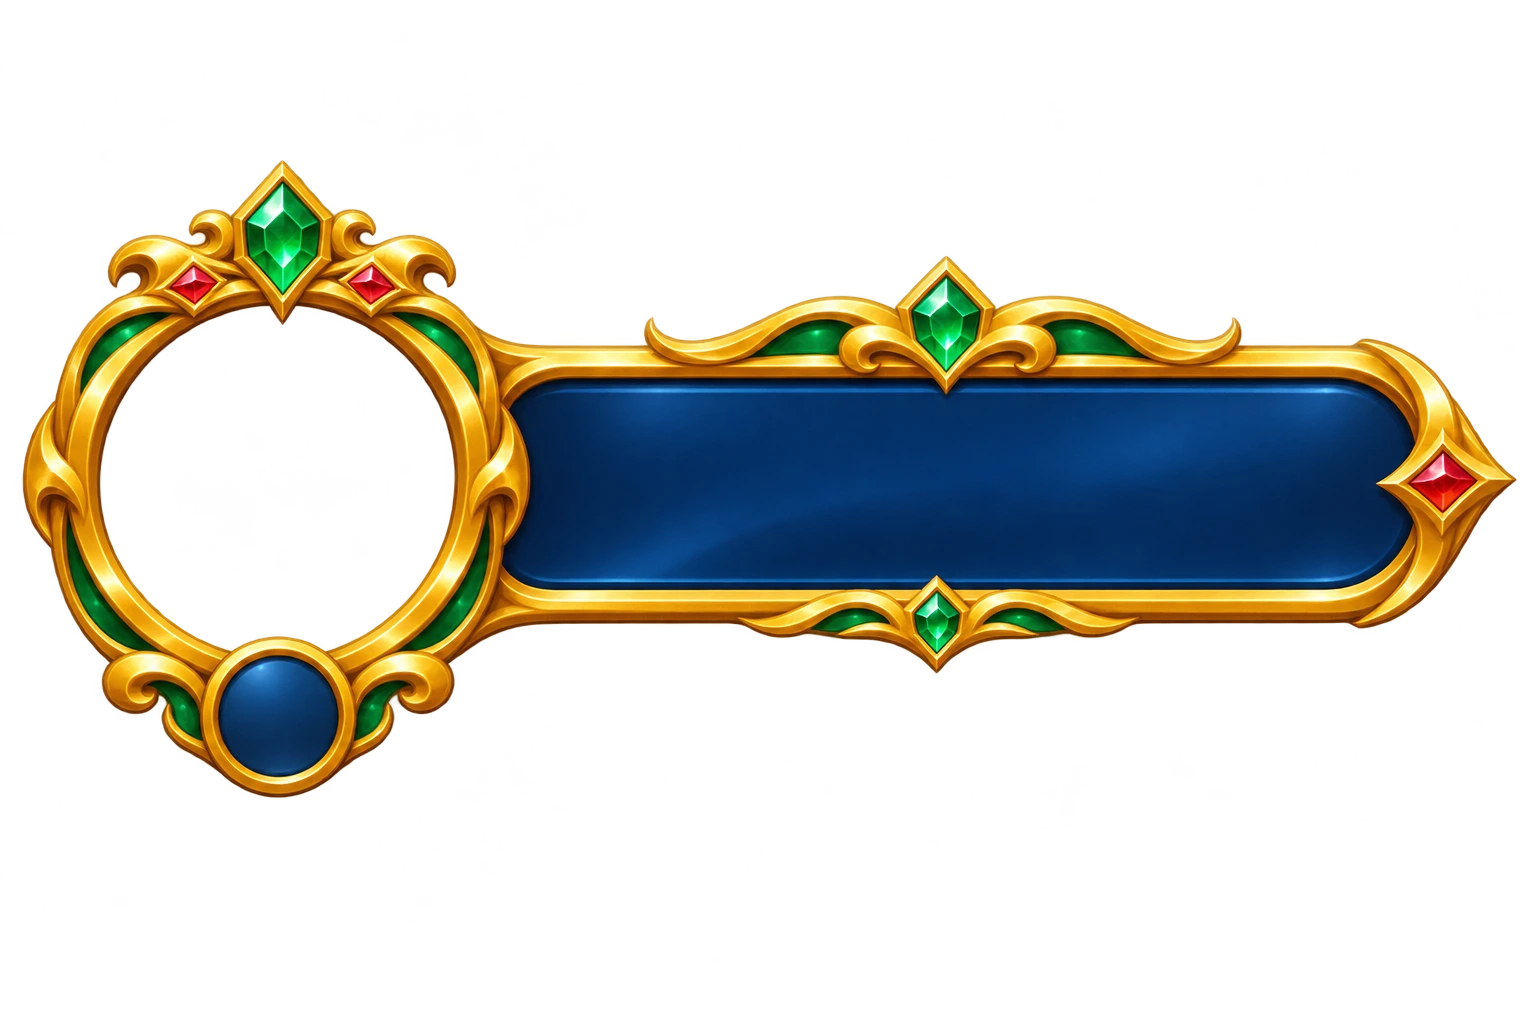
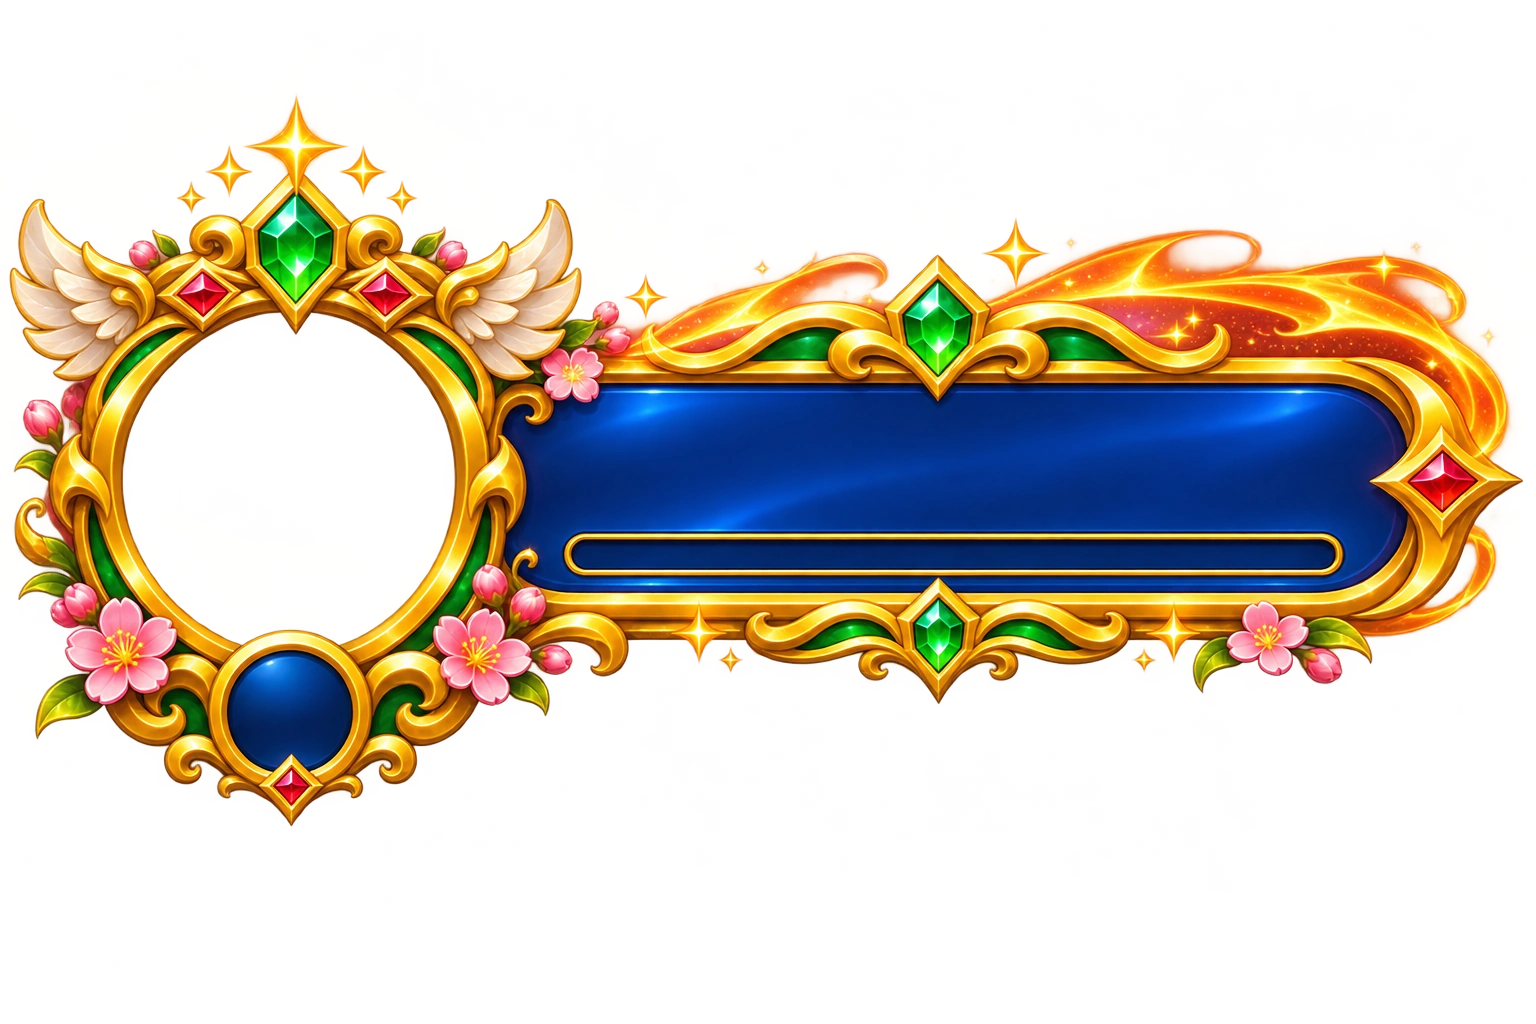
Home profile plate: festive painted plate with flame, Reina's real face, gold power, glow and shine
Claude-Session: https://claude.ai/code/session_01LAihPK9NCrskSMr2X6nzoy

diff --git a/wings-of-wonder/src/app.js b/wings-of-wonder/src/app.js
@@ -872,6 +872,25 @@ document.addEventListener('load',async event=>{
 const registeredCombatCache=new WardrobeCache(8);
 let lastRegisteredCombatImage=null;
 // noWings: the same portrait without wings, for games that draw the wings themselves so they can beat.
+// Reina's real face for the home profile ring: the worn look without wings, cropped to the head (alpha scan), cached
+// per look. Until it is ready the painted avatar shows; img.pf2-face is swapped when the crop is done.
+const reinaFaceCache=new Map();
+function reinaFaceUrl(){
+ if(typeof document==='undefined'||typeof document.createElement!=='function')return '';
+ const {dress,hair}=registeredLook(),key=dress+'/'+hair;if(reinaFaceCache.has(key))return reinaFaceCache.get(key)||'';
+ const img=registeredCombatBitmap(true);
+ if(!img){setTimeout(()=>{if(reinaFaceUrl()){const f=document.querySelector('.pf2-face');if(f)f.src=reinaFaceUrl()}},400);return ''}
+ try{
+  const W=img.naturalWidth||img.width,H=img.naturalHeight||img.height,c=document.createElement('canvas');c.width=W;c.height=H;const x=c.getContext('2d',{willReadFrequently:true});x.drawImage(img,0,0);
+  const d=x.getImageData(0,0,W,H).data,op=(i,j)=>d[(j*W+i)*4+3]>60;
+  let top=0;for(let j=0;j<H&&!top;j+=2)for(let i=Math.floor(W*.3);i<W*.7;i+=2)if(op(i,j)){top=j;break}
+  let bot=H-1;for(let j=H-1;j>top;j-=4){let hit=false;for(let i=0;i<W;i+=4)if(op(i,j)){hit=true;break}if(hit){bot=j;break}}
+  const fh=bot-top,band=top+fh*.15;let sx=0,n=0;for(let j=Math.floor(top+fh*.1);j<band;j+=2)for(let i=Math.floor(W*.25);i<W*.75;i+=2)if(op(i,j)){sx+=i;n++}
+  const cx=n?sx/n:W/2,side=fh*.16,cy=top+fh*.095,o=document.createElement('canvas');o.width=o.height=256;
+  const g=o.getContext('2d');g.imageSmoothingQuality='high';g.drawImage(img,cx-side/2,cy-side/2,side,side,0,0,256,256);
+  const url=o.toDataURL('image/png');reinaFaceCache.set(key,url);return url;
+ }catch{reinaFaceCache.set(key,'');return ''}
+}
 function registeredCombatBitmap(noWings){
  if(typeof Image==='undefined')return null;
  const {dress,hair}=registeredLook(),weapon=S.atelier?.weapon||((S.reinaFashion?.equipped&4)?12:13);
@@ -1176,7 +1195,7 @@ function home(){
  // Beside Reina stand exactly the pets placed in the three Primary Pet slots (Pet -> Formation), each in its own spot.
  const pets=WonderGear.petTeam(S).slice(0,3).map((id,slot)=>id?{...item(id),slot}:null).filter(Boolean);
  const short=[cityGroups[0][0],cityGroups[1].find(i=>i[0]==='gift')];
- $('#main').innerHTML=`<section class="city-hud" data-expanded="${cityExpanded}"><button class="city-status pf2" onclick="go('profile')" aria-label="Profile: ${esc(S.name)}, level ${level()}, power ${fmt(st.power)}"><img class="pf2-face" src="${artPath('reina-avatar')}" alt=""><img class="pf2-plate" src="${artPath('hud-profile')}" alt="">${S.supreme?.frame&&typeof frameArt==='function'?frameArt(S.supreme.frame,false,'pf-city'):''}<span class="pf2-band"><b>${esc(S.name)}</b><span><i>⚔&#xFE0E;</i>${fmt(st.power)}</span><i class="pf2-xp"><u style="width:${Math.min(100,(S.xp%WonderProgress.xpPerLevel)/WonderProgress.xpPerLevel*100)}%"></u></i></span><span class="pf2-lv">${level()}</span></button>
+ $('#main').innerHTML=`<section class="city-hud" data-expanded="${cityExpanded}"><button class="city-status pf2" onclick="go('profile')" aria-label="Profile: ${esc(S.name)}, level ${level()}, power ${fmt(st.power)}"><img class="pf2-face" src="${reinaFaceUrl()||artPath('reina-avatar')}" alt=""><img class="pf2-plate" src="${artPath('hud-profile')}" alt="">${S.supreme?.frame&&typeof frameArt==='function'?frameArt(S.supreme.frame,false,'pf-city'):''}<span class="pf2-band"><b>${esc(S.name)}</b><span><i>⚔&#xFE0E;</i>${fmt(st.power)}</span></span><i class="pf2-xp"><u style="width:${Math.min(100,(S.xp%WonderProgress.xpPerLevel)/WonderProgress.xpPerLevel*100)}%"></u></i><i class="pf2-flame"></i><i class="pf2-shine"></i><span class="pf2-lv">${level()}</span></button>
  <button class="city-rank" onclick="go('rankings')"><img src="${artPath('hud-rank')}" alt="">Rank</button><div class="city-wallet"><span><img src="${artPath('hud-gems')}">${fmt(S.tickets)}</span><span><img src="${artPath('hud-prisms')}">${fmt(S.scales)}</span></div><div class="city-place">Sky Garden</div>
  <button class="city-event" onclick="go('rankings')"><img src="${artPath('hud-event')}" alt=""><small>Hall of Wonders</small><strong>${esc(S.name)}</strong></button>
  <div class="city-left-events"><div class="city-top">${cityGroups[0].map(item=>cityIcon(item,'left-')).join('')}</div><div class="city-top city-compact">${short.map(item=>cityIcon(item,'left-')).join('')}</div>

diff --git a/wings-of-wonder/src/stage.css b/wings-of-wonder/src/stage.css
@@ -11008,3 +11008,27 @@ html body #stage .hm-pop button.hm-row:active{filter:brightness(.95);transform:s
 html body #stage .hm-pop button.hm-boss{position:relative;display:flex;align-items:center;justify-content:space-between;width:100%;height:min(12cqw,58px);min-height:0;margin:8px 0 0;padding:0 6px 0 14px;border-radius:12px;border:1.5px solid #fff!important;background:linear-gradient(90deg,#5a8ef0,#8ec4ff)!important;box-shadow:0 3px 8px #2a5ab055!important;color:#fff!important;font:900 min(4cqw,19px)/1 Georgia,serif;text-shadow:0 1px 2px #1a3a80!important;overflow:hidden;cursor:pointer}
 html body #stage .hm-pop button.hm-boss::before,html body #stage .hm-pop button.hm-boss::after{content:none!important}
 .hm-boss img{height:140%;width:auto;margin-right:-4px;filter:drop-shadow(0 2px 3px #0004)}
+/* Profile plate, festive look (2026-11-27, user: "ours is somehow boring"): painted ring with wings and blossoms, a
+   flame along the banner, Reina's real face, big gold power, live glow and shine. Positions from build-profile-plate.py */
+html body #stage .city-hud button.city-status.pf2{width:34%;top:.4%;left:.6%;aspect-ratio:1024/494}
+html body #stage .city-hud .pf2 .pf2-face{left:7.3%;top:29.4%;width:22.4%;transform:none;background:radial-gradient(#ffe8f2,#c9a6e8)}
+html body #stage .city-hud .pf2 .pf-city{left:18.5%;top:52.5%;height:58%}
+html body #stage .city-hud .pf2 .pf2-band{left:35.5%;top:39.5%;width:55%;height:20.5%;padding:0 3%;gap:0;justify-content:center}
+html body #stage .city-hud .pf2 .pf2-band b{font:900 clamp(8px,1.6cqw,14px)/1 Georgia,serif;letter-spacing:1px;color:#ffe9b8;opacity:.95}
+html body #stage .city-hud .pf2 .pf2-band>span{gap:4px;font:900 clamp(12px,2.9cqw,26px)/1 Georgia,serif;color:transparent;background:linear-gradient(#fffbe0,#ffd25a 50%,#ff9a2a);-webkit-background-clip:text;background-clip:text;text-shadow:none;filter:drop-shadow(0 1px 0 #6a2a00) drop-shadow(0 0 6px #ff8a2a99)}
+html body #stage .city-hud .pf2 .pf2-band>span i{font-size:.8em;color:#ffd24a;-webkit-text-fill-color:#ffd24a;filter:none}
+html body #stage .city-hud .pf2 .pf2-xp{position:absolute;display:block;left:37.6%;width:49.6%;top:61.6%;height:2.6%;margin:0;border-radius:6px;background:#06143a;box-shadow:none;overflow:hidden}
+html body #stage .city-hud .pf2 .pf2-xp u{display:block;height:100%;border-radius:6px;background:linear-gradient(90deg,#5ad04a,#c6ff7a);box-shadow:0 0 6px #9aff6a}
+html body #stage .city-hud .pf2 .pf2-lv{left:18.6%;top:83.4%;font:900 clamp(9px,2cqw,18px)/1 Georgia,serif;color:#fff;text-shadow:0 1px 2px #000,0 0 6px #6aa8ff}
+html body #stage .city-hud .pf2 .pf2-flame{position:absolute;left:40%;top:12%;width:58%;height:30%;border-radius:50%;background:radial-gradient(ellipse at 70% 60%,#ffb24a88,#ff6a1a33 45%,transparent 70%);mix-blend-mode:screen;pointer-events:none;animation:pf2-flame 1.6s ease-in-out infinite alternate}
+@keyframes pf2-flame{from{opacity:.45;transform:scaleY(.9)}to{opacity:1;transform:scaleY(1.08) translateY(-4%)}}
+html body #stage .city-hud .pf2 .pf2-shine{position:absolute;left:34%;top:39%;width:58%;height:29%;border-radius:40px;overflow:hidden;pointer-events:none}
+html body #stage .city-hud .pf2 .pf2-shine::after{content:'';position:absolute;top:0;bottom:0;left:-30%;width:22%;background:linear-gradient(100deg,transparent,#ffffff55,transparent);animation:pf2-shine 4.5s ease-in-out infinite}
+@keyframes pf2-shine{0%,55%{left:-30%}100%{left:120%}}
+html body #stage .city-hud button.city-status.pf2{width:33%;top:.3%}
+html body #stage .city-hud .city-rank{left:34.5%}
+html body #stage .city-hud .pf2 .pf2-band b{font-size:min(1.6cqw,14px)}
+html body #stage .city-hud .pf2 .pf2-band>span{font-size:min(2.9cqw,26px)}
+html body #stage .city-hud .pf2 .pf2-lv{font-size:min(2cqw,18px)}
+html body #stage #main .city-hud .city-left-events{top:14%}
+@media (max-width:700px){html body #stage .city-hud .pf2 .pf2-band b{display:none}}

diff --git a/wings-of-wonder/scripts/build-profile-plate.py b/wings-of-wonder/scripts/build-profile-plate.py
@@ -24,9 +24,9 @@ def label(mask):
 ROOT = Path(__file__).resolve().parents[1]
 im = Image.open(ROOT/'scripts/art-source/ui/profile-plate.webp').convert('RGBA'); a = np.array(im)
 a[a[..., 3] < 20] = 0; a[a[..., 3] == 0, :3] = 0
-im = Image.fromarray(a); im = im.crop(im.getbbox()); W = 640; im = im.resize((W, round(im.height*W/im.width)), Image.Resampling.LANCZOS)
-im.save(ROOT/'src/assets/generated/hud-profile.webp', quality=88, method=6)
-im.save(ROOT/'scripts/hosting-art/hud-profile.avif', quality=40, speed=4)
+im = Image.fromarray(a); im = im.crop(im.getbbox()); W = 1024; im = im.resize((W, round(im.height*W/im.width)), Image.Resampling.LANCZOS)
+im.save(ROOT/'src/assets/generated/hud-profile.webp', quality=95, method=6)
+im.save(ROOT/'scripts/hosting-art/hud-profile.avif', quality=60, speed=4)
 a = np.array(im).astype(int); h, w = a.shape[:2]; pct = lambda x, y: (round(100*x/w, 1), round(100*y/h, 1))
 # portrait hole: transparent pixels not connected to the border
 lab, n = label(a[..., 3] < 40); border = set(lab[0]) | set(lab[-1]) | set(lab[:, 0]) | set(lab[:, -1])

diff --git a/CLAUDE.md b/CLAUDE.md
@@ -280,6 +280,13 @@ dark-blue enamel nameplate band, level medallion, no text) `art-source/ui/profil
 `scripts/build-profile-plate.py` (prints hole / band / medallion positions). `.city-status.pf2` in `home()`: portrait in
 the ring, name + ⚔ power + XP bar on the band, level in the medallion; Rank moved right, the left event icons 1.7%
 lower. Hosted bundle 33,507,356 bytes.
+Festive plate (2026-11-27, user: "ours is somehow boring", photo of the reference's flame power banner): new painting
+(image-model edit, the v1 plate kept as `profile-plate-v1.webp`): ring with small gold wings, blossoms and gems, a flame
+along the top of the blue banner, an XP groove; built at 1024 px q95. Reina's REAL face sits in the ring:
+`reinaFaceUrl()` crops the head of the worn look without wings (`registeredCombatBitmap(true)`, alpha scan, cached per
+dress/hair; the old `reina-avatar` elf shows only until it is ready). Big gold-gradient power, small name (hidden under
+700 px), green XP bar in the groove, level in the medallion, a flickering flame glow `.pf2-flame` and a light sweep
+`.pf2-shine`. Positions in CSS "Profile plate, festive look".
 The old v301 profile page (`heroProfile`, blue card with party heroes, Fashion / Mount, Attributes; user: "what is
 this? my eyes rolled up") is retired: `go('profile')` and a saved `screen==='profile'` open `character` instead; the
 plate and the Character page no longer link to it; the city skill "Companion" opens `cityCompanion`.
